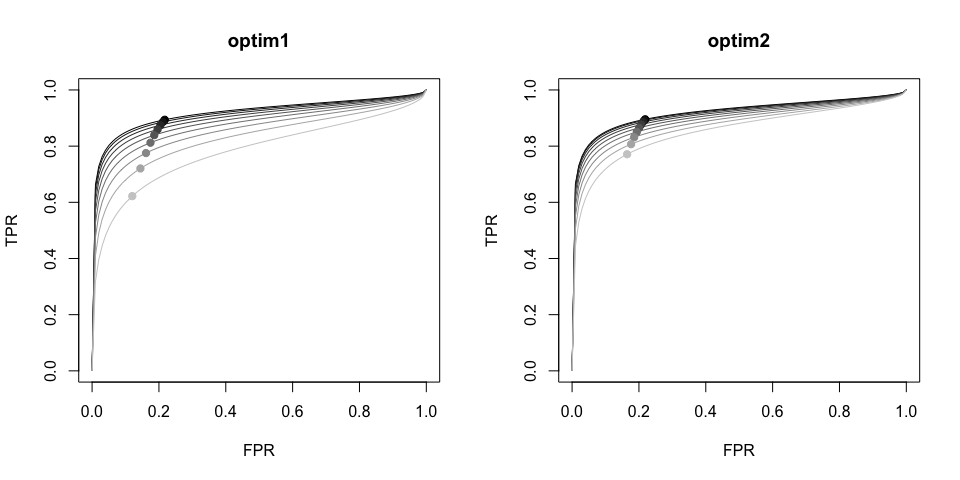
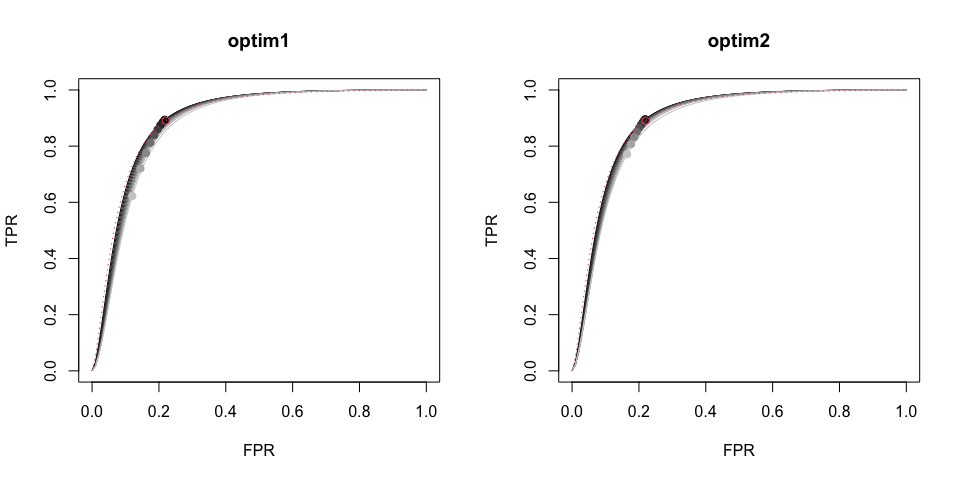
update

Changed region(s): [[0.0938, 0.1875, 0.4375, 0.7812], [0.5938, 0.1875, 0.9375, 0.7812]]

diff --git a/README.md b/README.md
@@ -300,38 +300,48 @@ head(AuditC)
 #> 5 130 19 211  959
 #> 6  84  2  68   89
 
-optim1(AuditC, 0.8)
+reitsma(AuditC)
+#> Call:  reitsma.default(data = AuditC)
+#> 
+#> Fixed-effects coefficients:
+#>               tsens     tfpr
+#> (Intercept)  2.0997  -1.2637
+#> 
+#> 14 studies, 2 fixed and 3 random-effects parameters
+#>   logLik       AIC       BIC  
+#>  31.5640  -53.1279  -46.4669
+optim1(AuditC, 0.7)
 #> $par
 #>         u1         u2        t11        t22        t12          r        auc 
-#>  2.0504342  1.3151459  1.5945139  0.4033924 -0.6955955 -0.8673188  0.8929369 
+#>  1.9420454  1.3591178  1.6934795  0.4199978 -0.7379118 -0.8749656  0.8906057 
 #>          b          a 
-#>  1.0000000 -1.1182449 
+#>  1.0000000 -1.6652240 
 #> 
 #> $value
-#> [1] 4.991503
+#> [1] 4.012178
 #> 
 #> $counts
 #> function gradient 
-#>       41       41 
+#>       45       45 
 #> 
 #> $convergence
 #> [1] 0
 #> 
 #> $message
 #> [1] "CONVERGENCE: REL_REDUCTION_OF_F <= FACTR*EPSMCH"
-optim2(AuditC, 0.8)
+optim2(AuditC, 0.7)
 #> $par
 #>          u1          u2         t11         t22         t12           r 
-#>  2.11010808  1.28960224  1.53030700  0.39148855 -0.66686359 -0.86156528 
+#>  2.04618028  1.31443244  1.60456084  0.40106440 -0.69519931 -0.86661097 
 #>         auc           b           a         c11         c22 
-#>  0.89425400  1.00000000 -1.60917853  0.95773699  0.04226301 
+#>  0.89244364  1.00000000 -2.19687692  0.94569946  0.05430054 
 #> 
 #> $value
-#> [1] 4.821417
+#> [1] 3.690833
 #> 
 #> $counts
 #> function gradient 
-#>       34       34 
+#>       41       41 
 #> 
 #> $convergence
 #> [1] 0
@@ -345,13 +355,17 @@ optim2(AuditC, 0.8)
 One ROC
 
 ``` r
+fit <- reitsma(AuditC)
+par0 <- c(fit$coefficients[1], -fit$coefficients[2], fit$vcov[4], -fit$vcov[3])
 par1 <- optim1(AuditC, 0.7)$par[c(1,2,4,5)]
 par2 <- optim2(AuditC, 0.7)$par[c(1,2,4,5)]
 
 sROC(par = par1, pch = 19)
 sROC(par = par2, add = TRUE, col=2, pch = 19)
+sROC(par = par0, add = TRUE, col=2, pch = 1, lty =3)
+
 with(AuditC, points(FP/(FP+TN), TP/(TP+FN)))
-legend("bottomright", c("optim1", "optim2"), col = c(1,2), lty = c(1,1))
+legend("bottomright", c("optim1", "optim2", "reitsma"), col = c(1,2,2), lty = c(1,1,3), pch = c(19,19,1))
 ```
 
 <img src="man/figures/README-unnamed-chunk-9-1.png" width="100%" />
@@ -361,13 +375,17 @@ A series of ROC
 ``` r
 
 p.seq <- seq(0.9, 0.1, -0.1)
-estimates1 <- sapply(p.seq, function(p) optim1(AuditC, p)$par)[c(1,2,3,5),]
-estimates2 <- sapply(p.seq, function(p) optim2(AuditC, p)$par)[c(1,2,3,5),]
+estimates1 <- sapply(p.seq, function(p) optim1(AuditC, p)$par)[c(1,2,4,5),]
+estimates2 <- sapply(p.seq, function(p) optim2(AuditC, p)$par)[c(1,2,4,5),]
 
 par(mfrow = c(1,2))
-sROC.bunch(par.matrix = estimates1)
+sROC.bunch(par.matrix = estimates1, p = p.seq)
+sROC(par = par0, add = TRUE, col =2, pch = 1, lty =3)
+
 title("optim1")
-sROC.bunch(par.matrix = estimates2)
+sROC.bunch(par.matrix = estimates2, p = p.seq)
+sROC(par = par0, add = TRUE, col = 2, pch = 1, lty =3)
+
 title("optim2")
 ```
 
